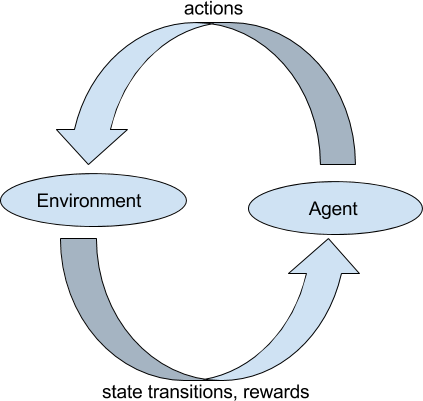
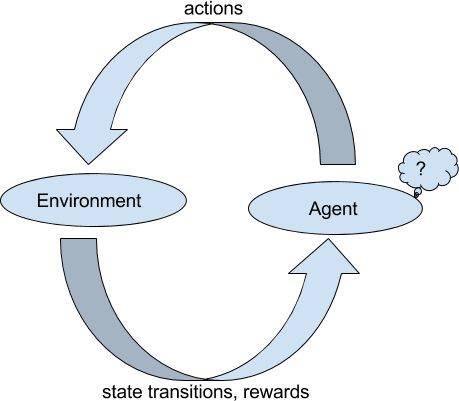
improved RL nutshell fig

Changed region(s): [[0.0, 0.0, 1.0, 1.0], [0.6761, 0.5087, 0.8605, 0.5387], [0.0, 0.5087, 0.0307, 0.5387]]

diff --git a/paper/paper.tex b/paper/paper.tex
@@ -819,8 +819,9 @@ the action of the agent and the reward can be thought
 of as satisfaction -- or punishment -- accompanying the execution of
 an action.
 
-\begin{wrapfigure}{r}{.4\linewidth}
-  \caption{Reinforcement Learning in a nutshell}  
+\begin{wrapfigure}{r}{.45\linewidth}
+  \caption{\textbf{Reinforcement Learning in a nutshell.} At each step, given the current state of the environment,
+    agent takes and action. This generates a reward and an observed state transition of the environment.}  
   \centering
   \includegraphics[width=.9\linewidth]{rl.png}
   \label{fig:rl}
@@ -1079,13 +1080,16 @@ may well reflect processing aspects of the DMN in human agents.
 % \subsubsection{The Bellman equation:  characterizing optimal behavior}
 % Q-learning (Watkins \& Dayan, 1992) generates a
 % \textit{greedy policy}
-\subsubsection{Optimal behavior and the Bellman equation} Optimal behavior corresponds to a strategy $\pi^*$ for choosing actions such that, for every state, the chosen action guarantees the best possible reward on average. Formally,
+\subsubsection{Optimal behavior and the Bellman equation}
+
+Optimal behavior corresponds to a strategy $\pi^*$ for choosing actions such that, for every state, the chosen action guarantees the best possible reward on average. Formally,
 % \textbf{XXX please add 1-2 sentences why this is interesting in the current
 % context. This statement appears a little alone as it stands.}
 \begin{equation}
   \pi^*(s) := \argmax_{a \in \mathcal A}{Q}^*(s, a),\text{ where }Q^*(s, a) := \max_{\pi}Q^\pi(s,a).
   \label{eq:qlearning}
 \end{equation}
+
 The goal of learning is to approach the policy $\pi^*$ as ``close as possible'', that is to \text{solve} the POMDP.
 Of course \eqref{eq:qlearning} is just a definition and
 represents by no means, a candidate schema for solving POMDPs with even moderately-sized action and state spaces: it's intractable!
@@ -1113,6 +1117,13 @@ a recursive decomposition of optimal behavior by dividing the $Q$-value function
 reward and the discounted rewards of the upcoming states.
 % The optimal Q-value operator $Q^*$
 % is a fixed point for this equation.
+
+% \begin{wrapfigure}{r}{.4\linewidth}
+%     \caption{Graphical illustration of the Bellman transform}   
+%   \includegraphics[width=.9\linewidth]{bellman.png}
+%   \label{fig:rl}
+% \end{wrapfigure}
+
 As a consequence, the complicated dynamic programming optimization problem \eqref{eq:qlearning}
 is broken into simpler sub-problems at different time points.
 Exploitation of hierarchical structure in actions consideration
